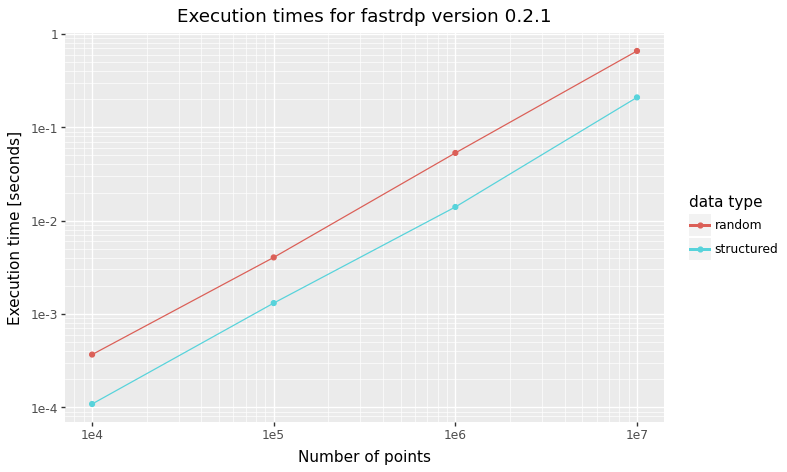
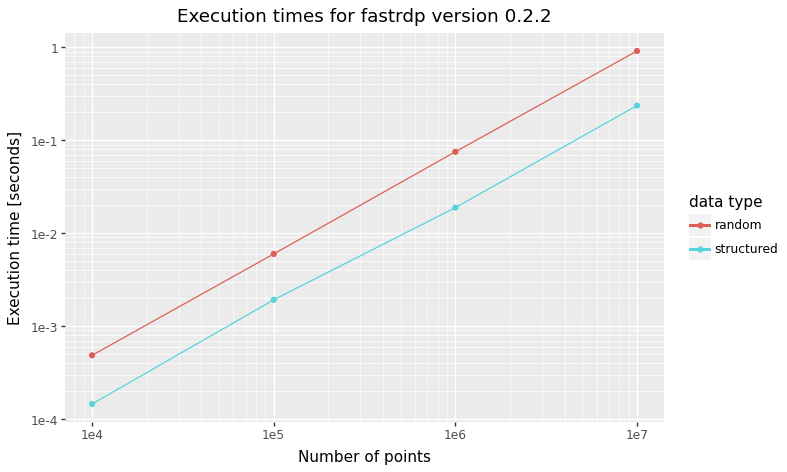
📝 Update performance measurements

diff --git a/README.md b/README.md
@@ -48,11 +48,11 @@ from timeit import timeit
 timeit(lambda: fastrdp.rdp(x, y, 0.1), number=10_000)
 ```
 
-    0.6944626589975087
+    1.0156666769762523
 
 The pure Python implementation in the [*rdp*
-package](https://pypi.org/project/rdp) takes longer to execute a single
-run than *fastrdp* takes to execute 10.000 runs.
+package](https://pypi.org/project/rdp) takes about the same time to
+execute a single run than *fastrdp* takes to execute 10.000 runs.
 
 ``` python
 import rdp
@@ -60,7 +60,7 @@ z = np.column_stack((x, y))
 timeit(lambda: rdp.rdp(z, epsilon=0.1), number=1)
 ```
 
-    0.758994490999612
+    0.7918517729849555
 
 To illustrate how *fastrdp* scales consider the following graph that
 shows execution time for an increasing number of point for both random
